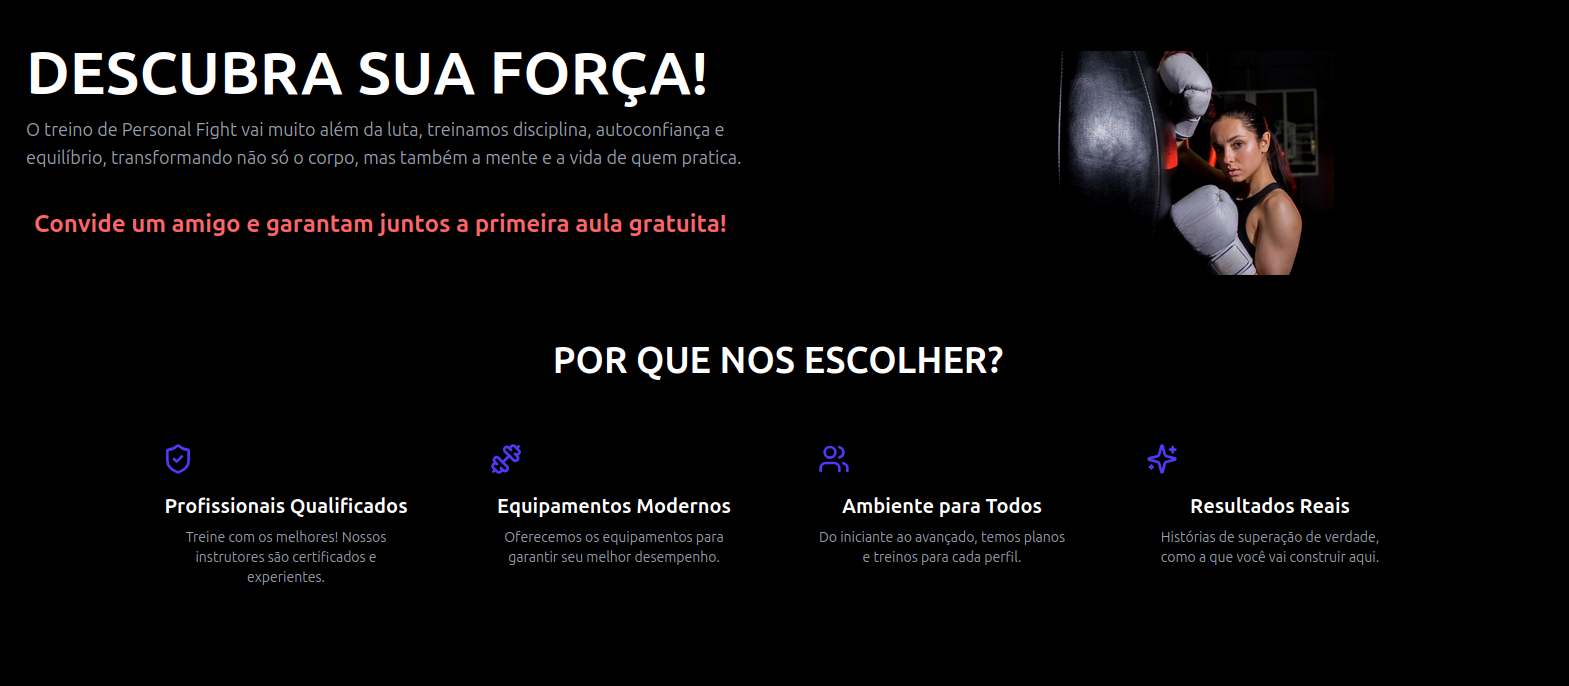
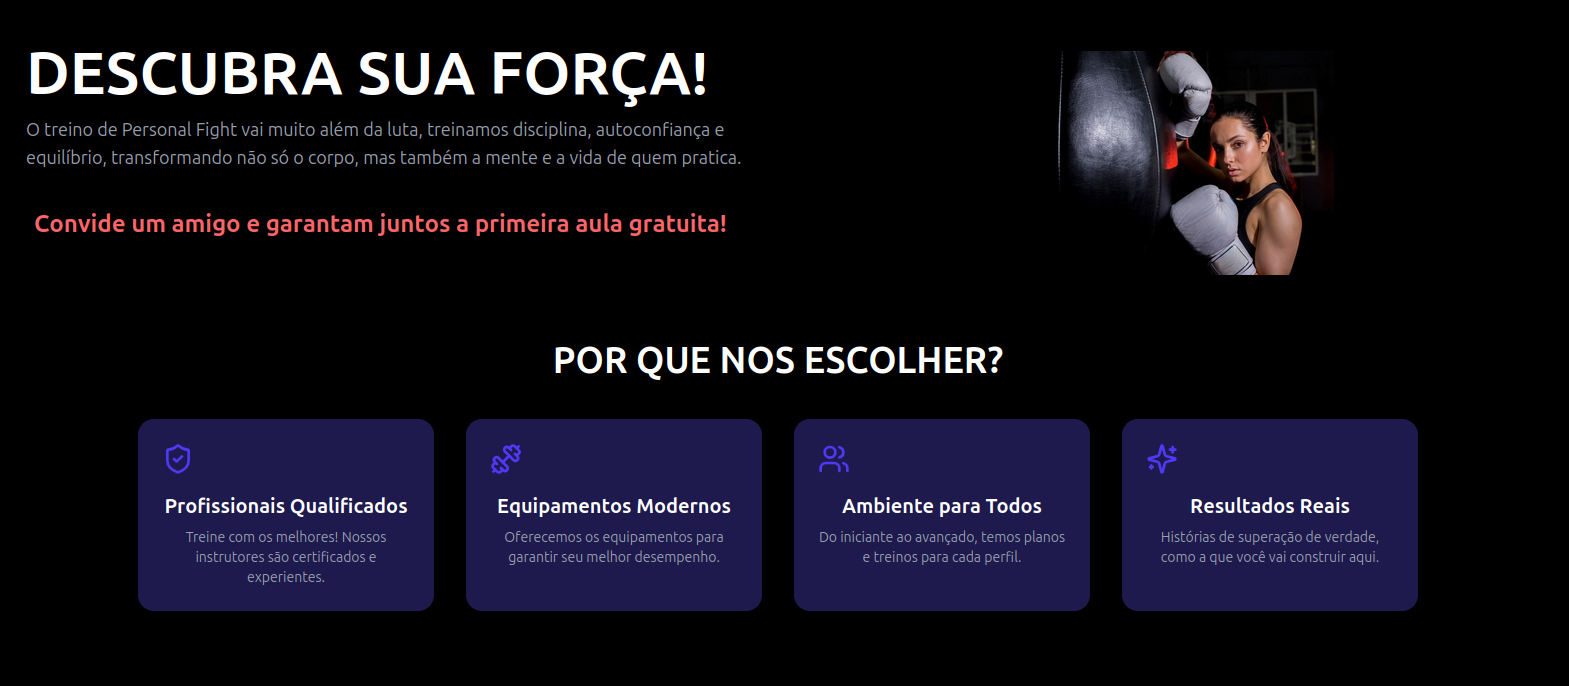
feat: enhance layout and UI components

Changed region(s): [[0.0625, 0.6122, 0.9057, 0.8878]]

diff --git a/src/app/_components/plans.tsx b/src/app/_components/plans.tsx
@@ -14,7 +14,7 @@ export function Plans() {
             
             ESCOLHA SUA MODALIDADE</h2>
           <div className="grid md:grid-cols-2 gap-10">
-            <div className="bg-gray-950 rounded-xl p-6"
+            <div className="bg-gray-900 rounded-xl p-6"
             data-aos="flip-left"
             >
               <h3 className="text-2xl font-semibold mb-2">🥊 Boxe</h3>
@@ -26,7 +26,7 @@ export function Plans() {
               </ul>
               <p className="text-lg font-bold text-indigo-600">R$ 199/mês</p>
             </div>
-            <div className="bg-gray-950 rounded-xl p-6"
+            <div className="bg-gray-900 rounded-xl p-6"
             data-aos="flip-right"
             >
               <h3 className="text-2xl font-semibold mb-2"> 🇹🇭 Muay Thai</h3>

diff --git a/src/app/_components/benefits.tsx b/src/app/_components/benefits.tsx
@@ -41,7 +41,7 @@ export function WhyChooseUs() {
           {benefits.map((benefit, index) => (
             <div
               key={index}
-              className="bg-black rounded-2xl p-6 shadow-lg hover:shadow-red-500/30
+              className="bg-indigo-950 rounded-2xl p-6 shadow-lg hover:shadow-red-500/30
                transition-shadow"
             >
               <div className="mb-4 ">{benefit.icon}</div>

diff --git a/src/app/_components/hero.tsx b/src/app/_components/hero.tsx
@@ -38,6 +38,7 @@ export function Hero() {
                     <b className="bg-transparent text-red-400 px-0.5 py-0.5 
                     rounded-md sm:px-2 sm:py-1 inline-block">
                     Convide um amigo e garantam juntos a primeira aula gratuita!
+
                    </b>
                   </p>
             </div>
